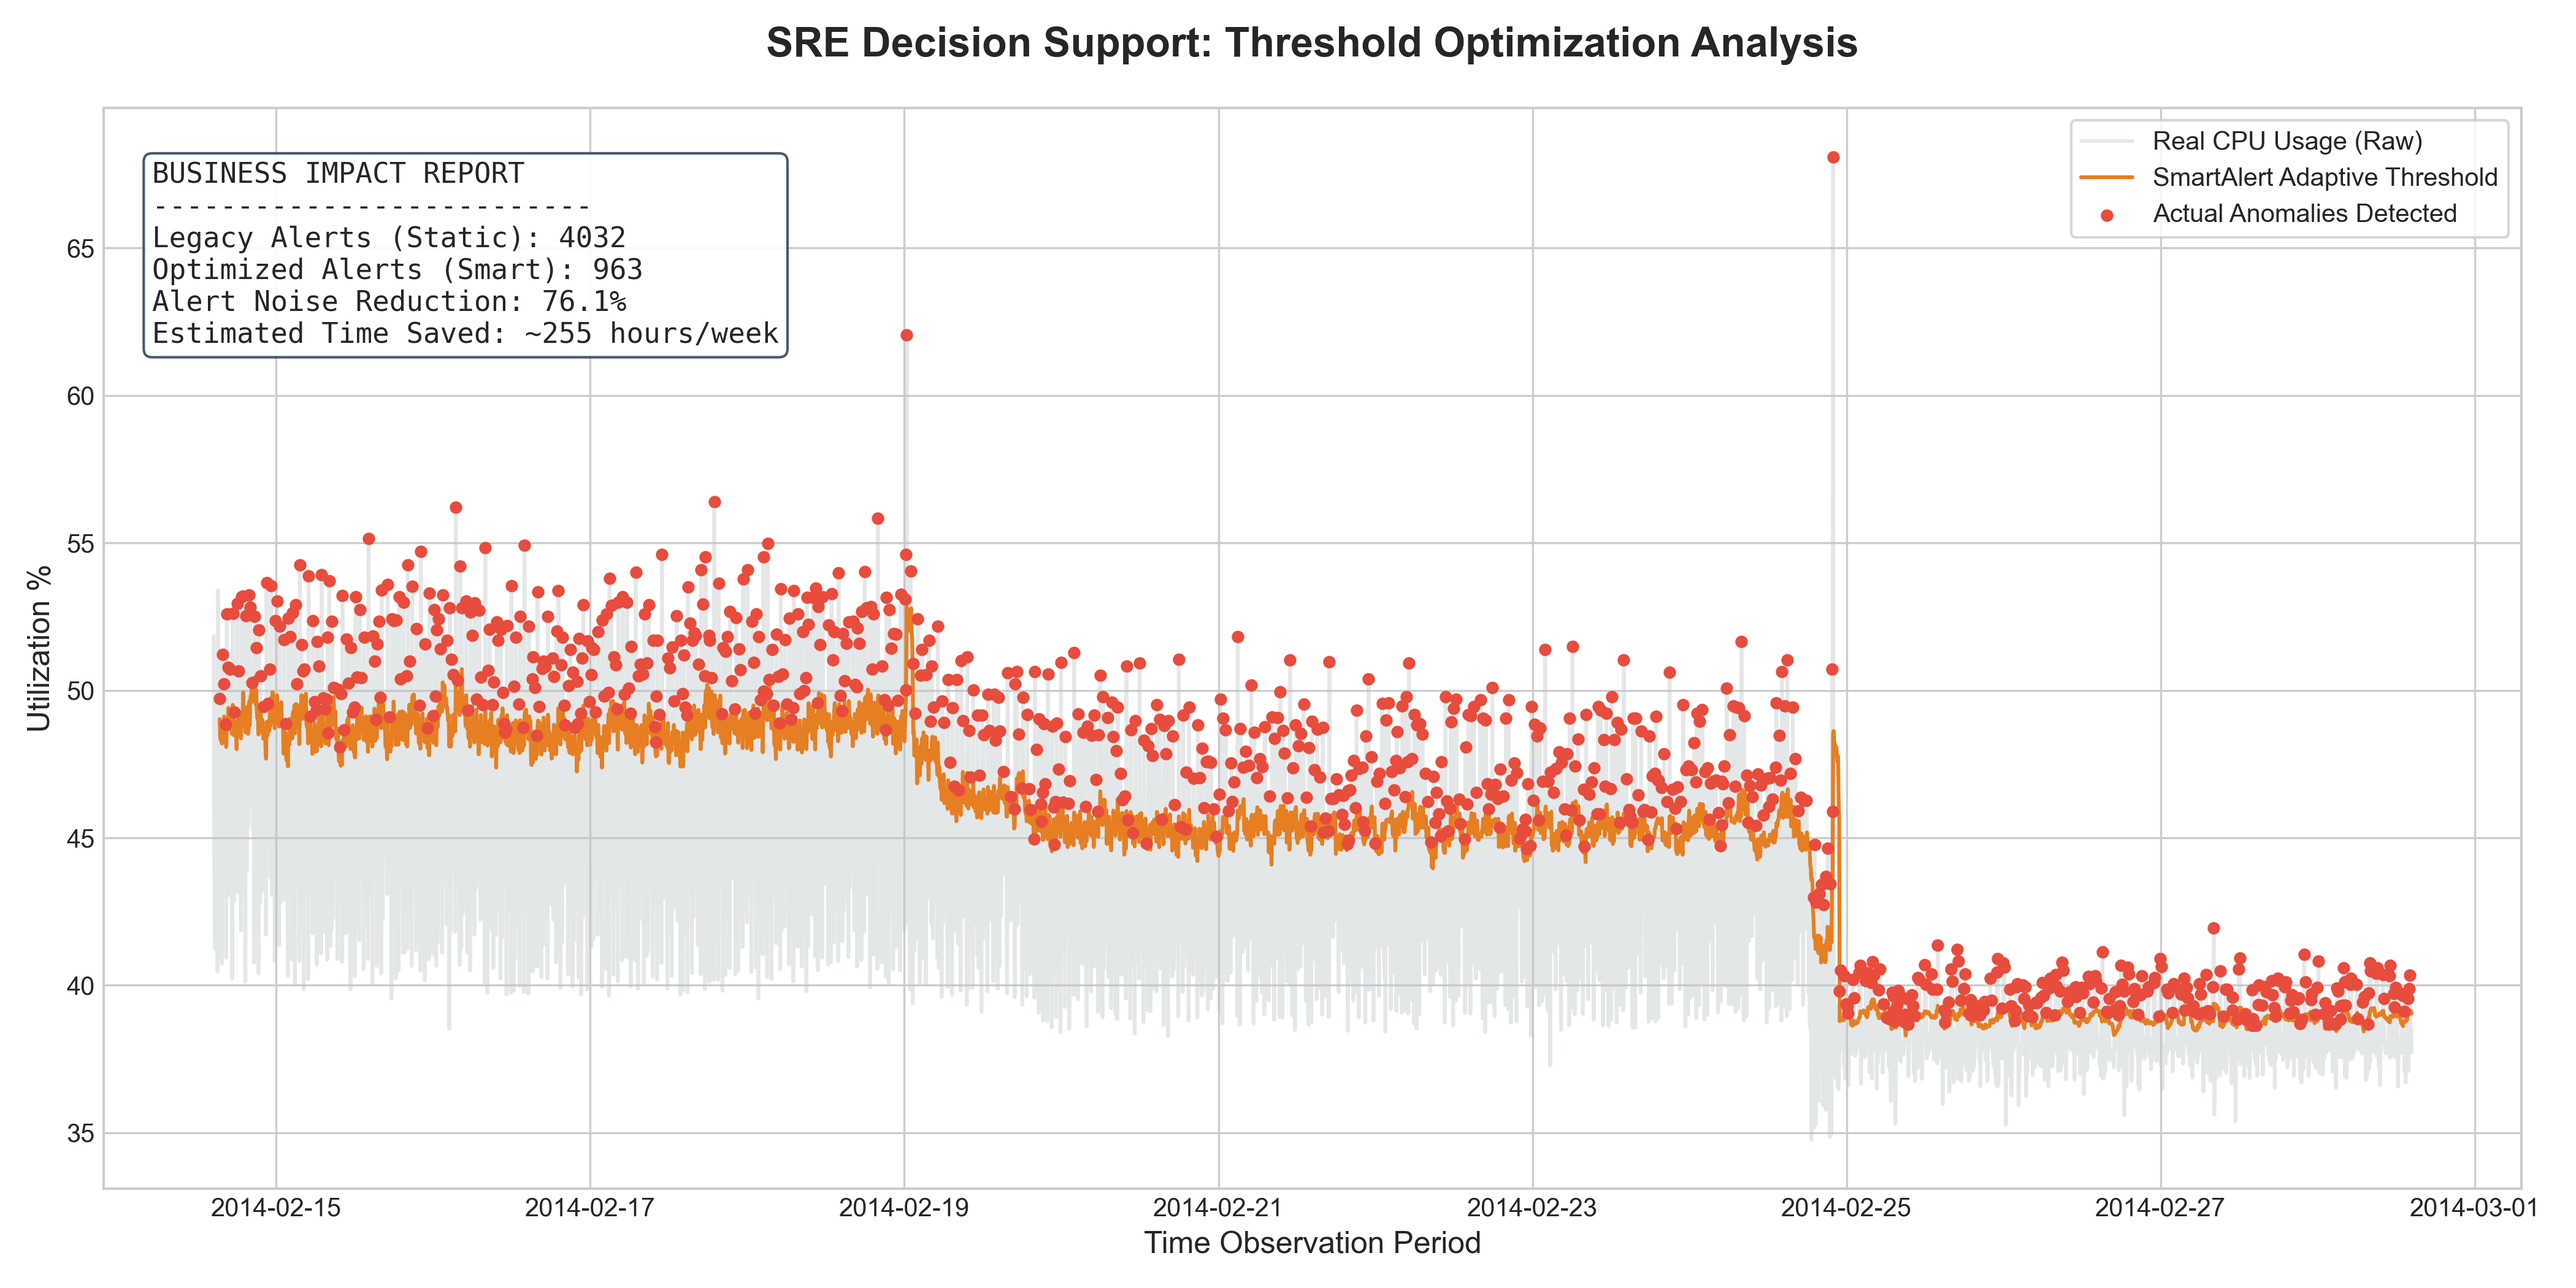
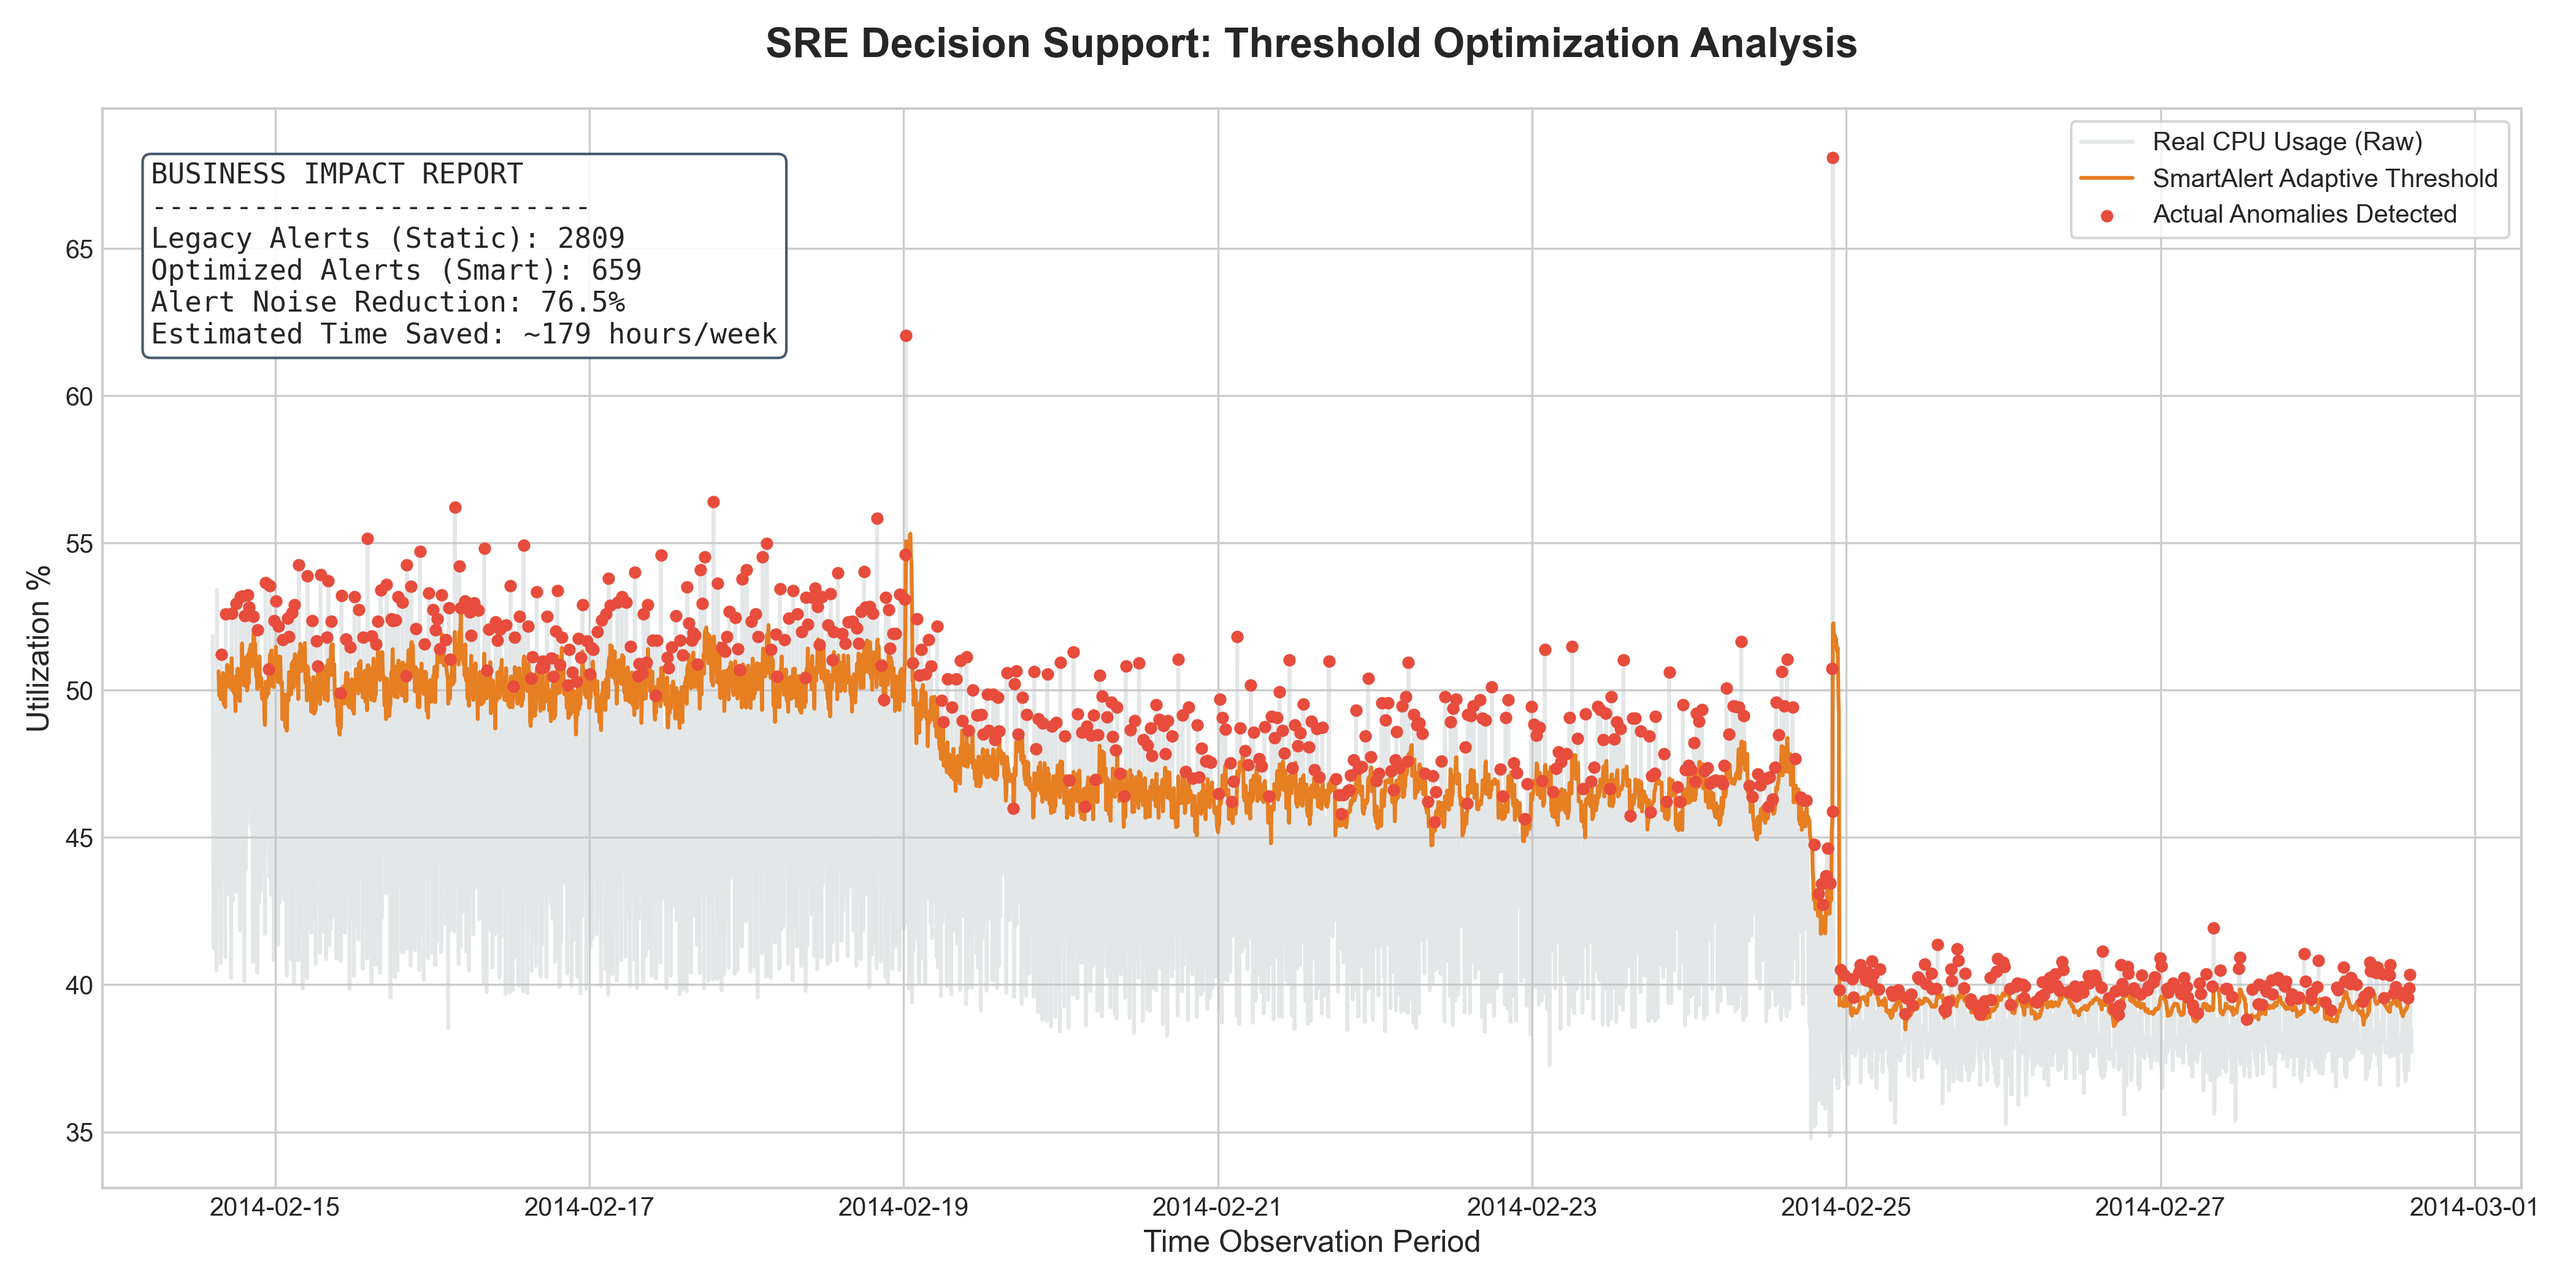
fix: update thresholds

diff --git a/src/analysis.py b/src/analysis.py
@@ -13,11 +13,11 @@ def analyze_patterns(df):
     
     # Calculate dynamic threshold for anomaly detection
     # This is the base of statistics for finding anomalies (Z-Score)
-    df['dynamic_threshold'] = df['rolling_mean'] + (0.6 * df['rolling_std'])
+    df['dynamic_threshold'] = df['rolling_mean'] + (1 * df['rolling_std'])
     
     return df
 
-def run_simulation(df, static_threshold_value=1.8):
+def run_simulation(df, static_threshold_value=30.0):
     """
     Compare static thresholding with dynamic thresholding to evaluate the reduction in false positives.
     """
@@ -97,7 +97,7 @@ if __name__ == "__main__":
     
 
     # 3. Simulation
-    s_alerts, d_alerts, red = run_simulation(data, static_threshold_value=1.8)
+    s_alerts, d_alerts, red = run_simulation(data, static_threshold_value=40.0)
 
     # 4. Save Business Report
     save_business_report(analyzed_data, s_alerts, d_alerts, red)

diff --git a/README.md b/README.md
@@ -16,8 +16,8 @@ Tested against the **Numenta Anomaly Benchmark (NAB)** using real-world AWS EC2 
 
 | Metric                 | Static Threshold (1.8%) | Dynamic Threshold (SmartAlert) |
 | :--------------------- | :---------------------- | :----------------------------- |
-| **Total Alarms**       | 4,032                   | 963                            |
-| **Noise Reduction**    | --                      | **76.12%**                     |
+| **Total Alarms**       | 2,809                   | 659                            |
+| **Noise Reduction**    | --                      | **76.5%**                      |
 | **System Reliability** | Unstable (High Noise)   | **Optimized (High Signal)**    |
 
 ## How it Works
@@ -27,7 +27,7 @@ The engine processes multi-variate time-series data to distinguish between "norm
 1. **Pattern Recognition:** Uses a 1-hour rolling window to calculate the moving average ($\mu$) and standard deviation ($\sigma$).
 2. **Statistical Triggering:** Instead of a fixed wall, it creates a dynamic buffer using the formula:  
    $Threshold = \mu + (k \cdot \sigma)$  
-   where $k$ is the sensitivity coefficient (tuned to **0.6** for balanced detection).
+   where $k$ is the sensitivity coefficient (tuned to **1.0** for balanced detection).
 3. **Simulation Engine:** Backtests the logic against historical data to quantify the reduction in false positives.
 
 ## Visualizing the Impact
